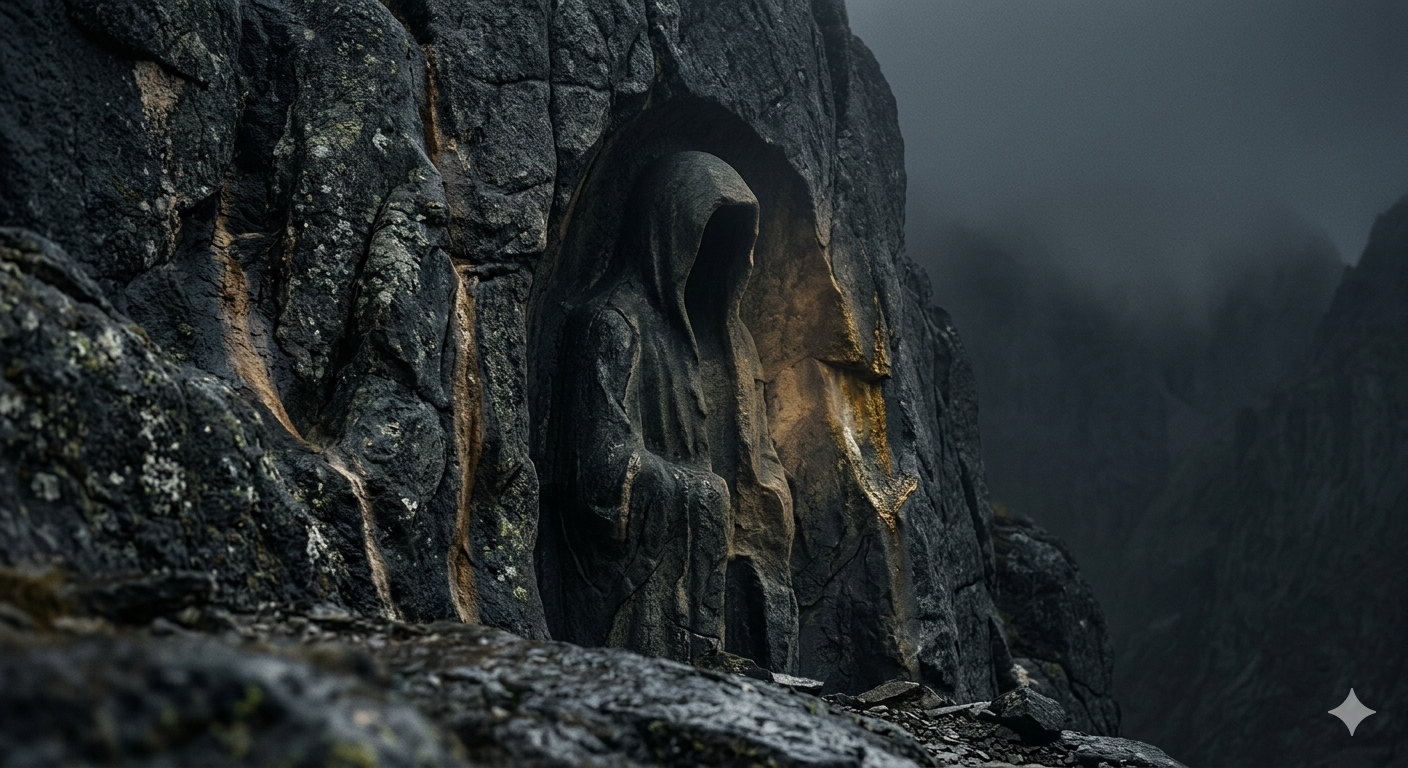
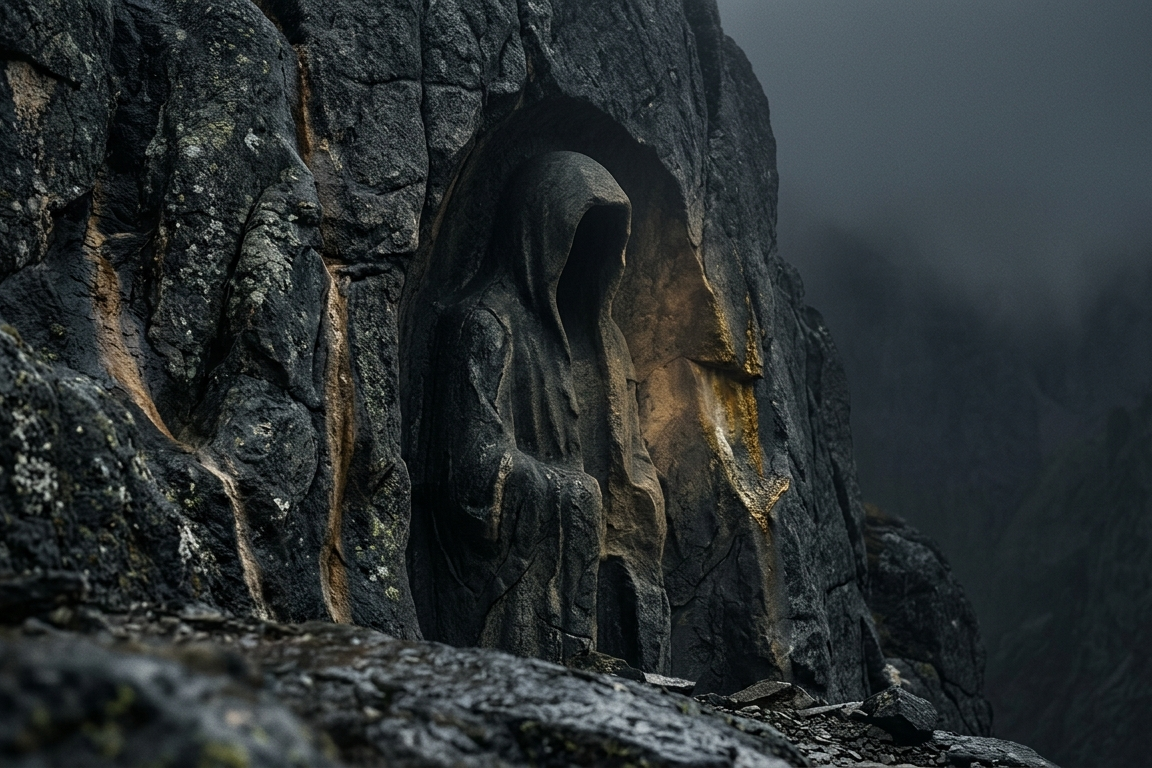
fixed bug related to error when running server - urlpattern issue

diff --git a/the_forge/templates/the_forge/the_forge.html b/the_forge/templates/the_forge/the_forge.html
@@ -43,7 +43,7 @@
 
         <div class="row">
             <div class="col-12">
-                <form method="post" action="{% url 'PLACEHOLDER_URL' %}">
+                <form method="post" action="PLACEHOLDER_URL">
                     {% csrf_token %}
                     <!-- Form fields for forging a Lore Entry will go here -->
                 </form>
@@ -62,7 +62,7 @@
 
         <div class="row" id="entity-entry-section">
             <div class="col-12">
-                <form method="post" action="{% url 'PLACEHOLDER_URL' %}">
+                <form method="post" action="PLACEHOLDER_URL">
                     {% csrf_token %}
                     <!-- Form fields for forging an Entity will go here -->
                 </form>

diff --git a/the_entity_archive/urls.py b/the_entity_archive/urls.py
@@ -3,5 +3,5 @@ from django.urls import path
 
 urlpatterns = [
     path("", views.EntityList.as_view(), name="archive"),
-    path("<name:name/", views.entity_Detail, name="entity_detail"),
+    path("<str:name>/", views.entity_profile, name="entity_profile"),
 ]
